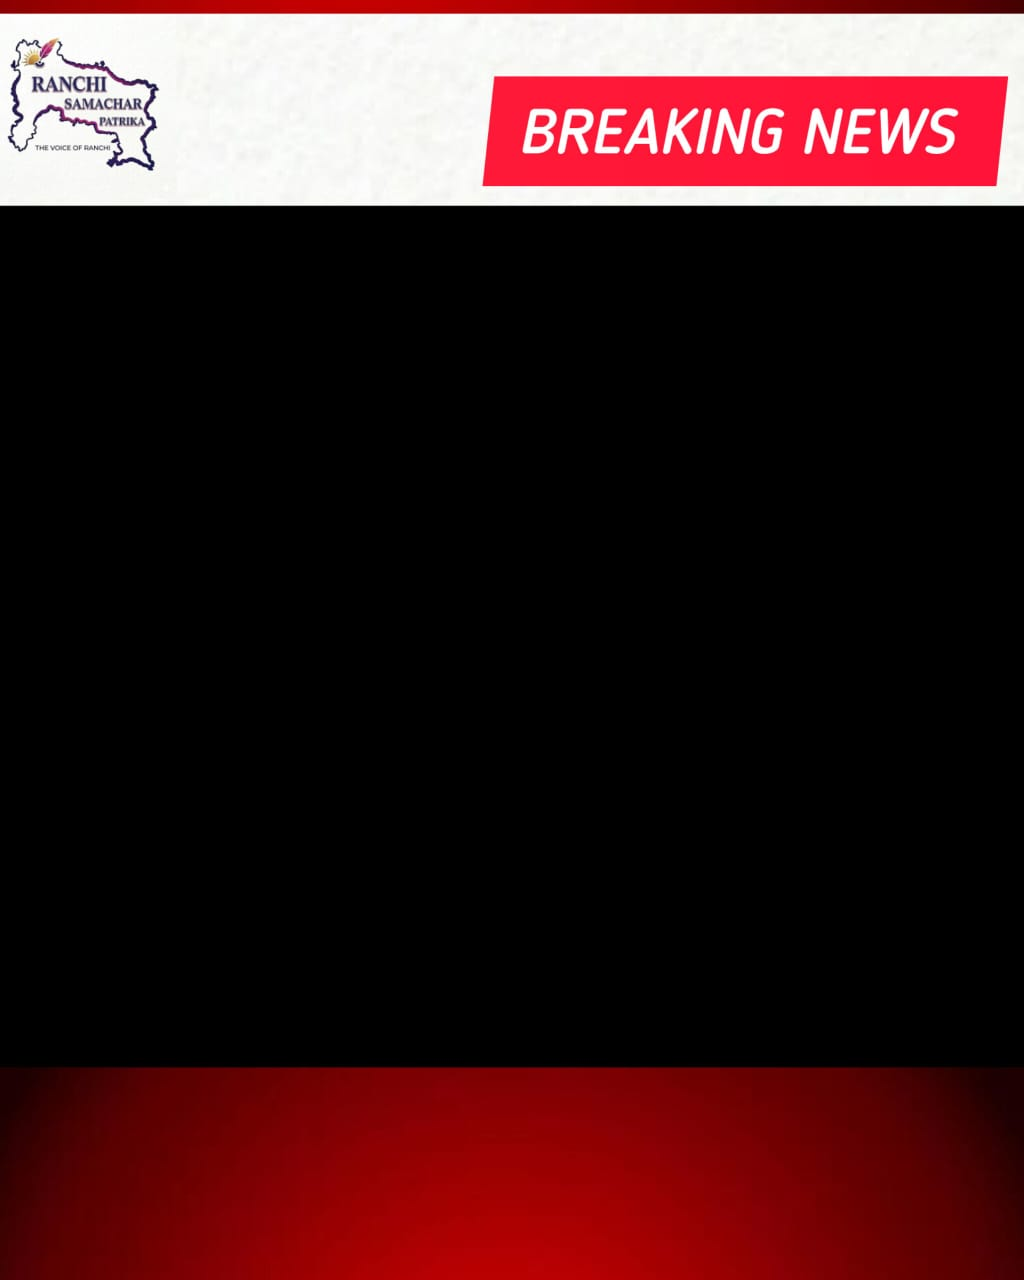
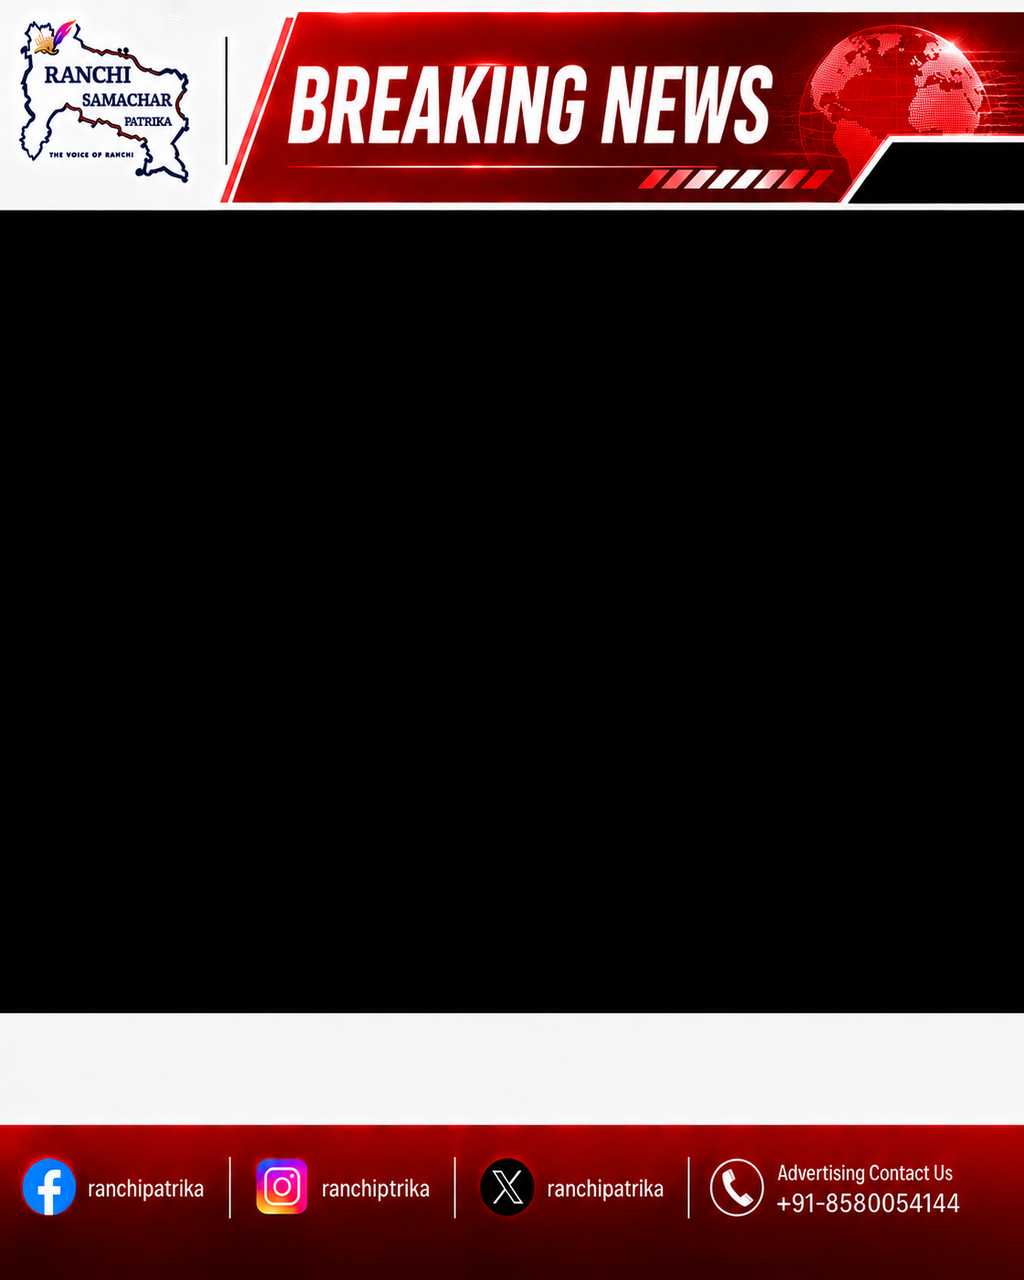
template updated

diff --git a/frontend/src/app/components/image-editor/image-editor.component.ts b/frontend/src/app/components/image-editor/image-editor.component.ts
@@ -13,12 +13,16 @@ import { CanvasService } from '../../services/canvas.service';
 import * as fabric from 'fabric';
 
 const TEMPLATES = [
+  { label: 'News Update',   file: 'default.png' },
   { label: 'Breaking News', file: 'breaking-news.png' },
   { label: 'Politics',      file: 'politics.png' },
   { label: 'Sports',        file: 'sports.png' },
   { label: 'Entertainment', file: 'entertainment.png' },
   { label: 'Crime',         file: 'crime.png' },
   { label: 'Business',      file: 'business.png' },
+  { label: 'Education',     file: 'education.png' },
+  { label: 'Health',        file: 'health.png' },
+  { label: 'Technology',    file: 'tech.png' }
 ];
 
 interface CaptionConfig {
@@ -46,7 +50,7 @@ export class ImageEditorComponent implements AfterViewInit, OnDestroy {
   @ViewChild('fabricCanvas') fabricCanvasRef!: ElementRef<HTMLCanvasElement>;
   @ViewChild('previewCanvas') previewCanvasRef!: ElementRef<HTMLCanvasElement>;
 
-  captions: CaptionConfig[] = [{ text: '', align: 'center', color: '#ffffff', bgColor: 'transparent' }];
+  captions: CaptionConfig[] = [{ text: '', align: 'center', color: '#000000', bgColor: 'transparent' }];
 
   templates = TEMPLATES;
   selectedTemplate = TEMPLATES[0].file;
@@ -63,6 +67,9 @@ export class ImageEditorComponent implements AfterViewInit, OnDestroy {
   private fabricCanvas: fabric.Canvas | null = null;
   private previewFabric: fabric.Canvas | null = null;
   private history: string[] = [];
+  private previewWidth = 1024;
+  private previewHeight = 1280;
+  private captionArea = { x: 0, y: 1066, width: 1024, height: 214 };
 
   constructor(private canvas: CanvasService, private snackBar: MatSnackBar, public cdr: ChangeDetectorRef) {}
 
@@ -111,7 +118,9 @@ export class ImageEditorComponent implements AfterViewInit, OnDestroy {
       const reader = new FileReader();
       reader.onload = (e) => {
         fabric.FabricImage.fromURL(e.target!.result as string).then((img) => {
-          const scale = Math.min(640 / img.width!, 480 / img.height!);
+          // Start in a cover-fit state: the photo fills the complete edit area
+          // (and, in turn, the template's black photo panel) without borders.
+          const scale = Math.max(640 / img.width!, 480 / img.height!);
           img.set({ scaleX: scale, scaleY: scale, left: 320, top: 240, originX: 'center', originY: 'center' });
           this.fabricCanvas!.add(img);
           this.fabricCanvas!.setActiveObject(img);
@@ -211,7 +220,7 @@ export class ImageEditorComponent implements AfterViewInit, OnDestroy {
   }
 
   addCaption() {
-    this.captions.push({ text: '', align: 'center', color: '#ffffff', bgColor: 'transparent' });
+    this.captions.push({ text: '', align: 'center', color: '#000000', bgColor: 'transparent' });
     this.cdr.markForCheck();
   }
 
@@ -234,18 +243,22 @@ export class ImageEditorComponent implements AfterViewInit, OnDestroy {
     this.isGenerating = true;
     this.cdr.markForCheck();
 
-    // Use the original uploaded file directly — canvas.service cover-fits it
-    // into the template's black area (y=206 to y=1066) exactly as before.
-    // The Fabric editor adjustments (zoom/rotate/flip) are for visual reference;
-    // the final composite is built from the original photo + selected template.
+    // Export the Fabric canvas itself. This is the important part: move, zoom,
+    // rotation, flips and added text now all reach the generated preview.
+    this.fabricCanvas.discardActiveObject();
+    this.fabricCanvas.renderAll();
+    const editedImage = this.fabricCanvas.toDataURL({ format: 'png', multiplier: 1 });
     const templateSrc = `templates/${this.selectedTemplate}`;
-    this.canvas.generateImage(templateSrc, this.selectedFile)
-      .then((dataUrl) => {
-        this.previewUrl = dataUrl;
+    this.canvas.generateImage(templateSrc, editedImage)
+      .then((result) => {
+        this.previewUrl = result.dataUrl;
+        this.previewWidth = result.width;
+        this.previewHeight = result.height;
+        this.captionArea = result.captionArea;
         this.isGenerating = false;
         this.showPreviewEditor = true;
         this.cdr.markForCheck();
-        setTimeout(() => this.initPreviewFabric(dataUrl), 150);
+        setTimeout(() => this.initPreviewFabric(result.dataUrl), 150);
       })
       .catch((err: any) => {
         this.snackBar.open('Image generation failed: ' + err.message, 'Close', { duration: 4000 });
@@ -262,16 +275,15 @@ export class ImageEditorComponent implements AfterViewInit, OnDestroy {
     const canvasEl = this.previewCanvasRef?.nativeElement;
     if (!canvasEl) return;
 
-    // Display at 480px wide, proportional height from 1024x1280
+    // Display at 480px wide while preserving each template's actual dimensions.
     const displayW = 480;
-    const displayH = Math.round(1280 * displayW / 1024); // 600px
-    const scale = displayW / 1024;
+    const displayH = Math.round(this.previewHeight * displayW / this.previewWidth);
+    const scale = displayW / this.previewWidth;
 
     this.previewFabric = new fabric.Canvas(canvasEl, { width: displayW, height: displayH });
 
     // Load the fully composited template image (header + photo + footer) as background
     fabric.FabricImage.fromURL(bgDataUrl).then((img) => {
-      // img.width = 1024, img.height = 1280 — scale down to displayW x displayH
       img.set({
         left: 0, top: 0,
         scaleX: scale, scaleY: scale,
@@ -280,23 +292,24 @@ export class ImageEditorComponent implements AfterViewInit, OnDestroy {
       });
       this.previewFabric!.add(img);
 
-      // Place initial captions in the footer area as draggable IText objects
-      const footerMidY = Math.round((1066 + 107) * scale);
+      // Place initial captions in the detected light caption strip, above the
+      // social-media footer. Their positions remain fully draggable afterwards.
+      const captionMidY = Math.round((this.captionArea.y + this.captionArea.height / 2) * scale);
       this.captions.filter(c => c.text.trim()).forEach((cap, i) => {
         const leftPos = cap.align === 'left' ? 10 : cap.align === 'right' ? displayW - 10 : displayW / 2;
         const originX = cap.align === 'left' ? 'left' : cap.align === 'right' ? 'right' : 'center';
         const t = new fabric.IText(cap.text, {
           left: leftPos,
-          top: footerMidY + i * 30,
+          top: captionMidY + i * 30,
           originX,
           originY: 'center',
           textAlign: cap.align,
           fontSize: 18,
           fill: cap.color,
           backgroundColor: cap.bgColor === 'transparent' ? '' : cap.bgColor,
-          fontFamily: '"Noto Sans Devanagari", Arial, sans-serif',
-          fontWeight: 'bold',
-          shadow: new fabric.Shadow({ color: 'rgba(0,0,0,0.9)', blur: 6, offsetX: 2, offsetY: 2 })
+          fontFamily: '"Arial, sans-serif',
+          fontWeight: 'bold'
+          //shadow: new fabric.Shadow({ color: 'rgba(0,0,0,0.9)', blur: 6, offsetX: 2, offsetY: 2 })
         });
         this.previewFabric!.add(t);
       });
@@ -309,8 +322,7 @@ export class ImageEditorComponent implements AfterViewInit, OnDestroy {
   downloadImage() {
     if (!this.previewFabric) return;
     const timestamp = new Date().toISOString().slice(0, 10);
-    // displayW=480, template=1024 → multiplier = 1024/480
-    const multiplier = 1024 / 480;
+    const multiplier = this.previewWidth / 480;
     const dataUrl = this.previewFabric.toDataURL({ format: 'jpeg', quality: 0.92, multiplier });
     this.canvas.downloadImage(dataUrl, `rsp-news-${timestamp}.jpg`);
   }

diff --git a/frontend/src/app/services/canvas.service.ts b/frontend/src/app/services/canvas.service.ts
@@ -1,59 +1,137 @@
 import { Injectable } from '@angular/core';
 
-// Template dimensions: 1024x1280
-// Header:  y=0    to y=206   (206px)
-// Black:   y=206  to y=1066  (860px) ← uploaded image goes here
-// Footer:  y=1066 to y=1280  (214px) ← caption text goes here
+export interface GeneratedImage {
+  dataUrl: string;
+  width: number;
+  height: number;
+  captionArea: { x: number; y: number; width: number; height: number };
+}
 
-const TEMPLATE_W = 1024;
-const TEMPLATE_H = 1280;
-const IMG_X = 0;
-const IMG_Y = 206;
-const IMG_W = 1024;
-const IMG_H = 860;
-const CAPTION_Y_START = 1066;
-const CAPTION_H = 214;
+interface TemplateLayout {
+  imageArea: { x: number; y: number; width: number; height: number };
+  captionArea: { x: number; y: number; width: number; height: number };
+}
 
 @Injectable({ providedIn: 'root' })
 export class CanvasService {
 
-  generateImage(templateSrc: string, newsImageFile: File, caption: string = ''): Promise<string> {
+  /**
+   * Composites an already-edited Fabric image into the black photo panel.
+   * The panel and caption area are detected from the selected template, so a
+   * category header can change without breaking the image/caption placement.
+   */
+  generateImage(templateSrc: string, editedImage: string): Promise<GeneratedImage> {
     return new Promise((resolve, reject) => {
-      const canvas = document.createElement('canvas');
-      canvas.width = TEMPLATE_W;
-      canvas.height = TEMPLATE_H;
-      const ctx = canvas.getContext('2d')!;
+      const template = new Image();
+      template.onerror = () => reject(new Error('Could not load the selected template.'));
+      template.onload = () => {
+        const canvas = document.createElement('canvas');
+        canvas.width = template.naturalWidth;
+        canvas.height = template.naturalHeight;
+        const ctx = canvas.getContext('2d');
+        if (!ctx) {
+          reject(new Error('Canvas is not available in this browser.'));
+          return;
+        }
 
-      const reader = new FileReader();
-      reader.onerror = reject;
-      reader.onload = (e) => {
+        const layout = this.findTemplateLayout(template);
         const newsImg = new Image();
-        newsImg.onerror = reject;
+        newsImg.onerror = () => reject(new Error('Could not read the edited image.'));
         newsImg.onload = () => {
-          // Step 1: Fill canvas black first
-          ctx.fillStyle = '#000000';
-          ctx.fillRect(0, 0, TEMPLATE_W, TEMPLATE_H);
+          // Draw the full template first, then replace only its black photo panel.
+          // This preserves each category's own header and footer artwork.
+          ctx.drawImage(template, 0, 0);
+          this.drawCover(ctx, newsImg, layout.imageArea.x, layout.imageArea.y, layout.imageArea.width, layout.imageArea.height);
 
-          // Step 2: Draw uploaded news photo into the black area (cover fit)
-          this.drawCover(ctx, newsImg, IMG_X, IMG_Y, IMG_W, IMG_H);
-
-          // Step 3: Draw ONLY header and footer from template (skip black middle)
-          const template = new Image();
-          template.onerror = reject;
-          template.onload = () => {
-            // Draw header portion only (y=0 to y=206)
-            ctx.drawImage(template, 0, 0, TEMPLATE_W, IMG_Y, 0, 0, TEMPLATE_W, IMG_Y);
-            // Draw footer portion only (y=1066 to y=1280)
-            ctx.drawImage(template, 0, CAPTION_Y_START, TEMPLATE_W, CAPTION_H, 0, CAPTION_Y_START, TEMPLATE_W, CAPTION_H);
-
-            resolve(canvas.toDataURL('image/jpeg', 0.92));
-          };
-          template.src = templateSrc;
+          resolve({
+            dataUrl: canvas.toDataURL('image/jpeg', 0.92),
+            width: canvas.width,
+            height: canvas.height,
+            captionArea: layout.captionArea
+          });
         };
-        newsImg.src = e.target!.result as string;
+        newsImg.src = editedImage;
       };
-      reader.readAsDataURL(newsImageFile);
+      template.src = templateSrc;
     });
+  }
+
+  private findTemplateLayout(template: HTMLImageElement): TemplateLayout {
+    const width = template.naturalWidth;
+    const height = template.naturalHeight;
+    const probe = document.createElement('canvas');
+    probe.width = width;
+    probe.height = height;
+    const probeCtx = probe.getContext('2d', { willReadFrequently: true })!;
+    probeCtx.drawImage(template, 0, 0);
+    const pixels = probeCtx.getImageData(0, 0, width, height).data;
+
+    // The photo panel is the longest almost-solid black horizontal band. Probe
+    // across the row so decorative black elements in a header do not match.
+    const blackRows: boolean[] = [];
+    for (let y = 0; y < height; y++) {
+      let blackSamples = 0;
+      let samples = 0;
+      for (let x = Math.floor(width * 0.08); x < width * 0.92; x += Math.max(1, Math.floor(width / 80))) {
+        const index = (y * width + x) * 4;
+        if (pixels[index] < 18 && pixels[index + 1] < 18 && pixels[index + 2] < 18) blackSamples++;
+        samples++;
+      }
+      blackRows.push(blackSamples / samples > 0.96);
+    }
+
+    let bestStart = -1;
+    let bestEnd = -1;
+    let runStart = -1;
+    for (let y = 0; y <= height; y++) {
+      if (y < height && blackRows[y]) {
+        if (runStart === -1) runStart = y;
+      } else if (runStart !== -1) {
+        if (y - runStart > bestEnd - bestStart) {
+          bestStart = runStart;
+          bestEnd = y;
+        }
+        runStart = -1;
+      }
+    }
+
+    // Safe fallback for an unexpected template: retains the legacy layout.
+    if (bestStart < 0 || bestEnd - bestStart < height * 0.2) {
+      bestStart = Math.round(height * 0.16);
+      bestEnd = Math.round(height * 0.79);
+    }
+
+    const imageArea = { x: 0, y: bestStart, width, height: bestEnd - bestStart };
+    const captionEnd = this.findCaptionEnd(pixels, width, height, bestEnd);
+    return {
+      imageArea,
+      captionArea: { x: 0, y: bestEnd, width, height: Math.max(1, captionEnd - bestEnd) }
+    };
+  }
+
+  private findCaptionEnd(pixels: Uint8ClampedArray, width: number, height: number, captionStart: number): number {
+    // The current templates use a light caption strip followed by a coloured
+    // social-media footer. End the caption strip at the first sustained dark/
+    // coloured band; if none exists, use the remainder of the template.
+    let runStart = -1;
+    for (let y = captionStart; y < height; y++) {
+      let brightSamples = 0;
+      let samples = 0;
+      for (let x = Math.floor(width * 0.08); x < width * 0.92; x += Math.max(1, Math.floor(width / 80))) {
+        const index = (y * width + x) * 4;
+        const max = Math.max(pixels[index], pixels[index + 1], pixels[index + 2]);
+        const min = Math.min(pixels[index], pixels[index + 1], pixels[index + 2]);
+        if (max > 215 && max - min < 35) brightSamples++;
+        samples++;
+      }
+      if (brightSamples / samples < 0.8) {
+        if (runStart === -1) runStart = y;
+        if (y - runStart >= 8) return runStart;
+      } else {
+        runStart = -1;
+      }
+    }
+    return height;
   }
 
   // Cover fit: fills the target rect, crops excess (like CSS background-size: cover)

diff --git a/frontend/src/app/models/post.model.ts b/frontend/src/app/models/post.model.ts
@@ -36,6 +36,7 @@ export interface ValidationResult {
 
 export const CATEGORIES = [
   'Breaking News',
+  'News Update',
   'Politics',
   'Sports',
   'Entertainment',
